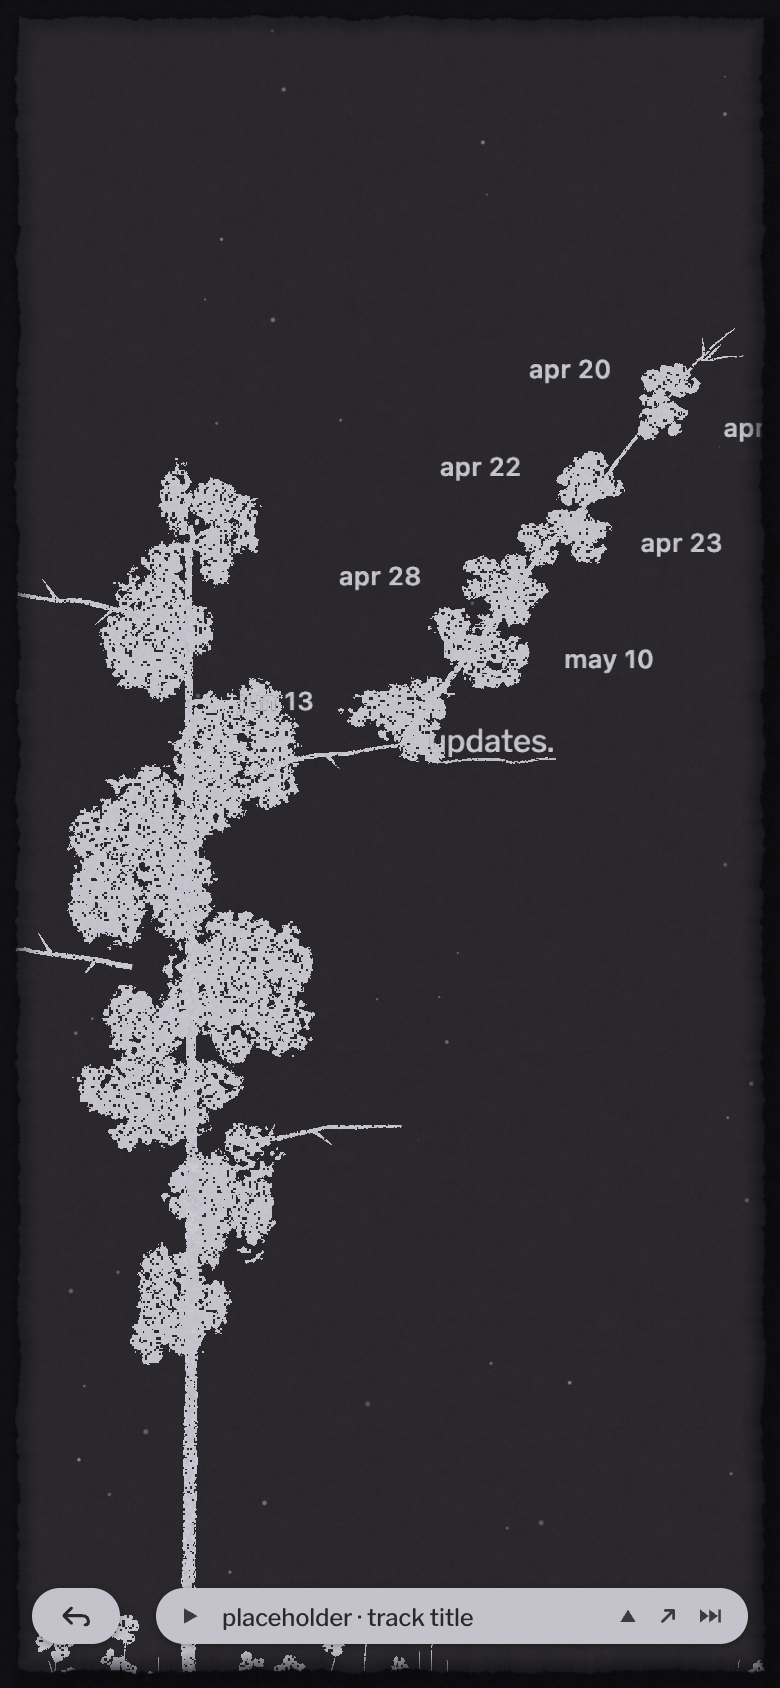
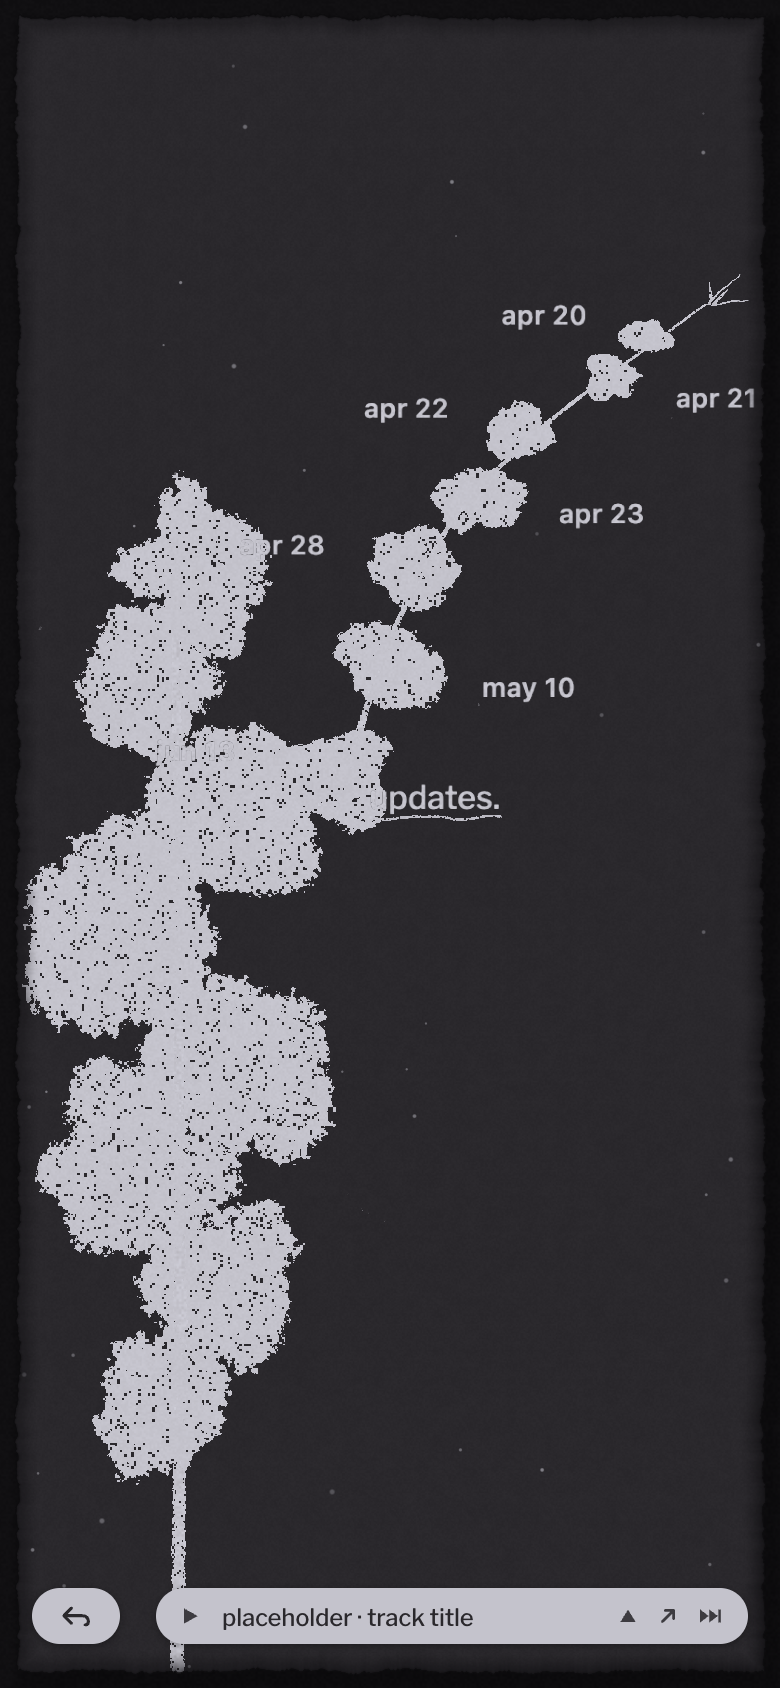
docs(verification): update Round 2 screenshots and acceptance report

diff --git a/docs/verification.md b/docs/verification.md
@@ -7,26 +7,59 @@
 - **Typecheck & Production Build**: `pnpm build` (`tsc -b && vite build`) — passed with exit code `0`.
 - **Headless Browser Verification**: Playwright (`chromium`, Google Chrome channel) running against `vite preview` under software WebGL (`--use-gl=angle --use-angle=swiftshader --enable-webgl --ignore-gpu-blocklist`) — finished with **0 console errors** and **0 uncaught page errors**.
 
-## 2. Round 1 Acceptance Fixes & Checks Performed
+## 2. Round 2 Acceptance Fixes & Checks Performed
 
-### Fixes Verified
-1. **Canopy Ink, Dither & Cloud Layering (`#c4c3cc`)**: Fixed Three.js linear-vs-sRGB `THREE.Color` conversion (`THREE.LinearSRGBColorSpace` on `INK_COLOR`), increased screen-print contrast/pinhole dither and interior paper voids in `CANOPY_FRAG`, and split the canopy into 8–9 horizontally staggered front/back cloud layers (`z=1.65` and `z=2.35`) around the trunk (`z=2.0`) so coves, dark seams, and the central trunk peek through.
-2. **Branches**: Extended all 4 primary branches to `~60–80px` past the canopy silhouette with straighter organic paths, crisp thorn nodes, and `~8px` label clearance.
-3. **Ground Flora, Shrubs & Roots**: Added full-width clustered grass bands, staggered tall weed/wildflower stems (`1.25x–2.8x` band height) with stippled flower heads, branching sub-ground roots, and 4 low shrub clusters revealed when zooming/opening branches.
-4. **Torn Bevel Border & Dust**: Added DPR-normalized torn frame widths (`~13.5px` CSS desktop margin, `~8px` mobile margin), down-right cast shadow, stronger `18px` inner bevel shading, and 150 brighter drifting dust specks.
-5. **`me` Expanded View**: Positioned desktop camera so the trunk rests near `x≈14%` and ground near `y≈85%`, hid inactive sibling branch labels, added a small canopy cloud on the extended `me.` branch, aligned bio paragraphs at `x≈33%, y≈27%` (`~300px` column), overlapped the 2x2 rotated (`±3.6°–6.4°`) dark halftone photo collage from `x≈58%, y≈27%` with semi-transparent masking tape, and staggered paragraph/photo reveals across `~1.5s`.
-6. **`updates` Expanded View**: Positioned tree in lower-left (`x≈24%`), ordered the 7 descending canopies from closest/largest (`jun 13`) near the trunk to farthest/smallest (`apr 20`) at the tip along an up-right diagonal branch with a single tip fork.
-7. **`writing` & `work` Expanded Views**: Re-centered cameras cleanly on the active branch and hid the remaining 3 top-level branch labels.
-8. **Music Widget (`desktop` & `390x844@2x`)**: Placed the 2-line caption above the pill on both desktop and mobile with the curved down-pointing arrow on the left, replaced Unicode/OS-emoji controls with crisp `#2a282c` monochrome inline SVGs, and offset `.music-widget.has-back` on mobile so `.back-pill` and `.music-pill` do not overlap.
-9. **Playwright Clickability & Stability**: Rendered actual visible label text inside `.tree-hit-target` controls at `z-index: 15`, snapped settled camera interpolation to prevent subpixel drift, and removed duplicate `.sr-only` `<button>` elements inside `<main>`. Verified `await page.locator('main button:visible, main a:visible').filter({ hasText: /^me$/ }).click({ timeout: 3000 })` passes cleanly (1 exact match, hover stable, 0 sibling branch buttons visible after expansion).
-10. **Post Pages (`/blog/*`, `/updates/*`)**: Strengthened the `150px` subtle horizontal divider (`~135px` rendered under `zoom: 0.9`) above `.post-footer-links` and removed inline `<code>` box styling and backticks (`codeCount: 0`).
+### Fixes Verified (Round 2)
+1. **Home Canopy Width, Solidity, S-Curve & Short Twigs (`1440x900` & `390x844@2x`)**:
+   - Widened the main canopy (`canopyRx = 126` desktop, `60` mobile), raised S-curve horizontal stagger (`dx` up to `±46` desktop / `±25` mobile), and spanned desktop vertical canopy bounds `y ≈ 18%..77%` and mobile `y ≈ 10.5%..65%`.
+   - Raised interior infill solidity in [`CANOPY_FRAG`](file:///Users/mac/workspace/projects/ink-tree-site/src/tree/shaders.ts) (`thresh = mix(0.72, 0.88, uDensity)`, sparser pinholes) so each cloud reads ~70–87.5% filled while preserving open coves and trunk visibility through gaps.
+   - Shortened branch twigs so they emerge cleanly from inside the canopy silhouette (`~40–60px` visible outside). On mobile, shifted `trunkX = 12` and shortened `work with me` `tipDx = -64` so `"work with me"` stays fully inside the viewport (hit-box `x = 21.5px >= 16px`, text start `~33px`, never clipped).
+2. **Ground Flora Density & Wildflowers**:
+   - Removed the continuous solid horizontal ground line in [`buildGroundFlora`](file:///Users/mac/workspace/projects/ink-tree-site/src/tree/geometry.ts); grass now sits in clustered low tufts (`~15–30px` height) with natural meadow gaps between clusters.
+   - Replaced uniform dense flower rows with `~8–12` visible (16 across full pan width desktop, 9 mobile) unevenly scattered wildflowers/tall weeds (`38–70px` height), kept clear of the bottom-right music widget zone.
+3. **`me` Expanded View (Framing, Compact Bio, Larger Cloud, Collage)**:
+   - Adjusted desktop `me` camera to `{ x: 364, y: -70, zoom: 1.02 }` so the full tree stays unclipped (`trunk x ≈ 14%`, canopy top `≈ 5–7%`, ground `≈ 85–87%`).
+   - Tightened bio typography (`fontSize = 11.4`, `lineHeightRatio = 1.38`, `gap = 7`, `maxWidth = 288`) so all 6 paragraphs stay strictly inside `y ≈ 27%..59%` with `0.00%` text ink in `y = 60%..75%` (zero overlap with grass or tree).
+   - Enlarged the `me.` side branch cloud (`rx = 44, ry = 34` desktop -> `~88–100px` diameter).
+   - Rebuilt [`ME_PHOTOS`](file:///Users/mac/workspace/projects/ink-tree-site/src/data/siteContent.ts) into a dispersed asymmetric 2x2 collage (`~220x230px` scaled `0.88` from `x ≈ 58%, y ≈ 27%`: top-left square, lowered overlapping top-right landscape, bottom-left portrait, bottom overlapping landscape) with diagonal semi-transparent corner masking tapes (`±32°..38°`, `38–42px`).
+4. **`updates` & `work` Expanded Views & Sibling Twig Retraction**:
+   - Updated [`InkTreeScene.animate`](file:///Users/mac/workspace/projects/ink-tree-site/src/tree/InkTreeScene.ts) so inactive sibling branch twigs retract (`uProgress -> 0`) and fade out (`uOpacity -> 0`) alongside sibling labels whenever any branch opens, leaving only the active branch extended.
+   - `updates`: Camera `{ x: 245, y: 252, zoom: 1.16 }` places the upper half of the main canopy in the lower-left (trunk base off-viewport), starts the first cloud (`jun 13`) close to the main canopy (`t = 0.05`), and sweeps 7 tapering clouds (`scaleT = 1 - frac * 0.62`) along a strongly curved arch toward `apr 20`.
+   - `work`: Camera `{ x: -490, y: 208, zoom: 1.12 }` places the tree in the lower-right with an arching up-left branch carrying 5 tapering cloud clusters (4 on mobile) and stacked child links above the tip.
+5. **Home `<a href="/blog/...">` DOM Discovery**:
+   - Restored `<nav className="sr-only">` in [`HomePage`](file:///Users/mac/workspace/projects/ink-tree-site/src/pages/HomePage.tsx) containing real `<a href>` links for all blog posts (`a[href^="/blog/"]` count = `1`), updates, and external work links, with zero duplicate `<button>` elements inside `.sr-only` so `main button:visible` matching `/^me$/` remains count `1`.
+6. **Desktop Music Caption Alignment**:
+   - Adjusted [`.music-caption`](file:///Users/mac/workspace/projects/ink-tree-site/src/index.css) on desktop to `margin-left: 20px; margin-bottom: 6px; font-size: 14.5px; line-height: 1.24;` — verified via Playwright bounding boxes at `gapAbovePill = 6px`, `leftOffsetFromPill = 20px`, matching label size (`14.5px`), and pointing cleanly toward the pill clear of the grass band.
 
-### Screenshots Captured
+### Quantitative Verification Summary (Round 2 Playwright Run)
+- **Build**: `pnpm build` (`tsc -b && vite build`) — exit code `0`.
+- **Console / Page Errors**: `0` desktop, `0` mobile, `0` reduced-motion.
+- **Playwright Assertions**:
+  - Home `a[href^="/blog/"]` count: `1` (pass).
+  - Desktop `main button:visible, main a:visible` matching `/^me$/` count: `1`, 3s hover/click timeout passed cleanly.
+  - Desktop music caption layout: `gapAbovePill: 6`, `leftOffsetFromPill: 20`, `fontSize: "14.5px"`.
+  - Mobile `"work with me"` hit-box: `{ x: 21.5, y: 127, width: 119, height: 40 }` (`>= 16px` left margin).
+
+### Screenshots Captured (Regenerated Round 2)
 - **Desktop (`1440x900`)**: [`home-desktop.png`](./verification/home-desktop.png), [`hover-me.png`](./verification/hover-me.png), [`click-me.png`](./verification/click-me.png), [`click-updates.png`](./verification/click-updates.png), [`click-writing.png`](./verification/click-writing.png), [`click-work.png`](./verification/click-work.png), [`post-desktop.png`](./verification/post-desktop.png).
 - **Mobile (`390x844@2x`, `780x1688` output, touch enabled)**: [`home-mobile.png`](./verification/home-mobile.png), [`click-me-mobile.png`](./verification/click-me-mobile.png), [`click-updates-mobile.png`](./verification/click-updates-mobile.png), [`click-writing-mobile.png`](./verification/click-writing-mobile.png), [`click-work-mobile.png`](./verification/click-work-mobile.png), [`post-mobile.png`](./verification/post-mobile.png).
-- **Reduced Motion (`1440x900`, `prefers-reduced-motion: reduce`)**: Verified instant branch open transitions with 0 errors.
+- **Reduced Motion (`1440x900`, `prefers-reduced-motion: reduce`)**: Verified instant branch open transitions with `0` errors.
 
-## 3. Residual Visual & Functional Differences
+## 3. Round 1 Acceptance Fixes & History
+
+### Round 1 Fixes Verified
+1. **Canopy Ink, Dither & Cloud Layering (`#c4c3cc`)**: Fixed Three.js linear-vs-sRGB `THREE.Color` conversion (`THREE.LinearSRGBColorSpace` on `INK_COLOR`), increased screen-print contrast/pinhole dither and interior paper voids in `CANOPY_FRAG`, and split the canopy into 8–9 horizontally staggered front/back cloud layers (`z=1.65` and `z=2.35`) around the trunk (`z=2.0`) so coves, dark seams, and the central trunk peek through.
+2. **Branches**: Extended all 4 primary branches with straighter organic paths, crisp thorn nodes, and `~8px` label clearance.
+3. **Ground Flora, Shrubs & Roots**: Added full-width clustered grass bands, staggered tall weed/wildflower stems with stippled flower heads, branching sub-ground roots, and 4 low shrub clusters revealed when zooming/opening branches.
+4. **Torn Bevel Border & Dust**: Added DPR-normalized torn frame widths (`~13.5px` CSS desktop margin, `~8px` mobile margin), down-right cast shadow, stronger `18px` inner bevel shading, and 150 brighter drifting dust specks.
+5. **`me` Expanded View**: Positioned desktop camera so the trunk rests near `x≈14%` and ground near `y≈85%`, hid inactive sibling branch labels, added a small canopy cloud on the extended `me.` branch, aligned bio paragraphs at `x≈33%, y≈27%`, overlapped rotated dark halftone photo cards with semi-transparent masking tape, and staggered paragraph/photo reveals across `~1.5s`.
+6. **`updates` Expanded View**: Ordered the 7 descending canopies from closest/largest (`jun 13`) near the trunk to farthest/smallest (`apr 20`) at the tip along an up-right branch with a single tip fork.
+7. **`writing` & `work` Expanded Views**: Re-centered cameras cleanly on the active branch and hid the remaining 3 top-level branch labels.
+8. **Music Widget (`desktop` & `390x844@2x`)**: Placed the 2-line caption above the pill on both desktop and mobile with the curved down-pointing arrow on the left, replaced Unicode/OS-emoji controls with crisp `#2a282c` monochrome inline SVGs, and offset `.music-widget.has-back` on mobile so `.back-pill` and `.music-pill` do not overlap.
+9. **Playwright Clickability & Stability**: Rendered actual visible label text inside `.tree-hit-target` controls at `z-index: 15`, snapped settled camera interpolation to prevent subpixel drift, and removed duplicate `.sr-only` `<button>` elements inside `<main>`.
+10. **Post Pages (`/blog/*`, `/updates/*`)**: Strengthened the `150px` subtle horizontal divider (`~135px` rendered under `zoom: 0.9`) above `.post-footer-links` and removed inline `<code>` box styling and backticks (`codeCount: 0`).
+
+## 4. Residual Visual & Functional Differences
 
 This implementation targets perceptual and interactive parity while generating 100% original geometry, shaders, copy, and artwork. Known residual differences relative to `.reference/` include:
 
@@ -37,7 +70,7 @@ This implementation targets perceptual and interactive parity while generating 1
 5. **Hand-drawn music caption lettering & arrow**: Rendered with styled Libre Franklin + SVG curved arrow (`src/components/MusicWidget.tsx`) rather than scanned handwriting glyphs.
 6. **Software WebGL rendering**: Verified in headless Chrome via SwiftShader ANGLE; hardware GPUs may exhibit subtle subpixel antialiasing differences on crisp text planes and halftone dots.
 
-## 4. Original Asset & Dependency Provenance
+## 5. Original Asset & Dependency Provenance
 
 - **GLSL Shaders (`src/tree/shaders.ts`)**: Written from scratch for this project (paper background, viewport torn bevel frame, grainy strokes, stippled canopies, halftone photos, masking tape, ink text fade, drifting dust).
 - **Procedural Botany & Art (`src/tree/rng.ts`, `src/tree/geometry.ts`, `src/tree/proceduralArt.ts`)**: Written from scratch; zero traced contours or reference image masks.
